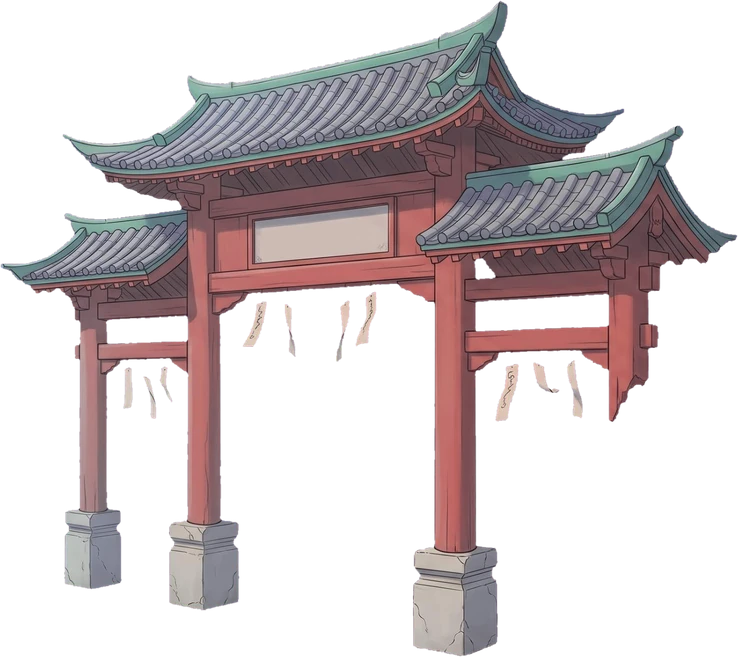
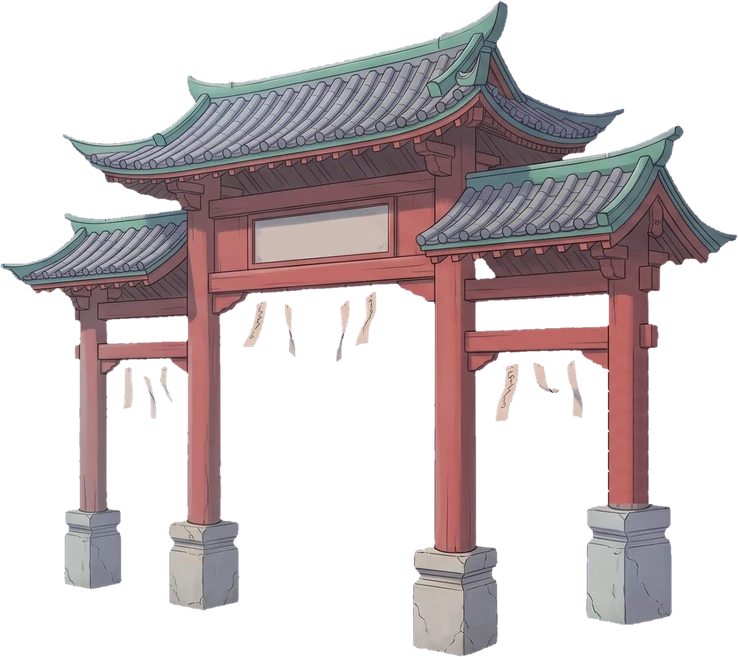
v0.8.50 山門補第四根柱腳；營地影子以營火為光源、隨火光晃動（師妹、山門、主角、營火接地影）（待確認）
Claude-Session: https://claude.ai/code/session_019t36GmrLQc7US5TAURovuv

Changed region(s): [[0.7791, 0.5784, 0.935, 0.9741]]

diff --git a/src/62_hub.js b/src/62_hub.js
@@ -71,6 +71,22 @@
       }
 
       const HUB_GATE_S = 0.33, HUB_GATE_L = -470; /* 山門縮放與左緣（前柱中心約在 x=-170，HUB_GATE_X=-150 越過即進場） */
+      /* v0.8.50 營地光源＝營火：影子方向背向火、越近越深越長，跟火光一起晃 */
+      const HUB_FIRE_X = -900;
+      function hubFlick() { const t = performance.now() / 1000; return 1 + 0.09 * Math.sin(t * 9) + 0.05 * Math.sin(t * 23 + 1.3) + 0.03 * Math.sin(t * 41); }
+      function hubLight(x) {
+        const d = x - HUB_FIRE_X, ad = Math.abs(d), f = hubFlick();
+        const near = Math.max(0, 1 - ad / 1100);
+        return { skew: Math.max(-1.5, Math.min(1.5, d / 320)) * f, len: (0.14 + 0.1 * near) * f, a: (0.28 + 0.34 * near) * (0.9 + 0.1 * f) };
+      }
+      function hubShadow(img, wx, ax, ay, S) { /* img 的 (ax, ay) 點站在地面 wx；S 為負＝左右鏡像 */
+        const c = shadowImg(img); if (!c) return;
+        const L = hubLight(wx);
+        ctx.save(); ctx.globalAlpha = L.a;
+        ctx.transform(S, 0, Math.abs(S) * L.skew, -Math.abs(S) * L.len, wx, Config.groundY + 2);
+        ctx.drawImage(c, -ax, -ay, img.naturalWidth, img.naturalHeight);
+        ctx.restore();
+      }
       function drawHubFront() { /* 山門前柱：畫在主角前面，讓主角像是從牌坊底下穿過 */
         if (Game.mode === "battle") return;
         const F = getBgArt("hub_gate_front"); if (!F.ok) return;
@@ -170,6 +186,7 @@
         ctx.fillRect(fx - 320, gy - 360, 640, 400);
         ctx.restore();
         const FB = getBgArt("hub_fire_base"), FS = fxSheet("campfire");
+        { const f2 = hubFlick(); ctx.save(); ctx.fillStyle = `rgba(10,6,4,${0.35 * (2 - f2)})`; ctx.beginPath(); ctx.ellipse(fx, gy + 6, 86 * (0.97 + 0.03 * f2), 12, 0, 0, Math.PI * 2); ctx.fill(); ctx.restore(); } /* 營火接地陰影 */
         if (FB.ok) ctx.drawImage(FB.img, fx - 78, gy - 58, 156, 76);
         if (FS.ok) {
           const cell = FS.img.naturalWidth / 4, f = Math.floor(t * 12) % 8;
@@ -189,7 +206,7 @@
           const SI = getBgArt("hub_shimei_" + pose);
           if (SI.ok) {
             const k = 0.346, w = 400 * k, h = 700 * k;
-            ctx.save(); ctx.fillStyle = "rgba(0,0,0,0.28)"; ctx.beginPath(); ctx.ellipse(nx, gy + 2, 44, 7, 0, 0, Math.PI * 2); ctx.fill(); ctx.restore();
+            hubShadow(SI.img, nx, 200, 695, -k); /* 師妹影子（隨營火） */
             ctx.save(); ctx.translate(nx, gy - 695 * k + h / 2 + 2); ctx.scale(-1, 1); ctx.drawImage(SI.img, -w / 2, -h / 2, w, h); ctx.restore();
           }
           const oy = gy - 205 + Math.sin(t * 2) * 6;
@@ -211,6 +228,10 @@
         // 山門（v0.8.49 生圖：斜側面牌坊，前柱另畫在角色前面＝drawHubFront；門洞有結界光幕，走近才散開）
         {
           const G = getBgArt("hub_gate");
+          if (G.ok) { /* 山門影子：以四根柱腳中點為地面基準 */
+            const gw = 1476 * HUB_GATE_S;
+            hubShadow(G.img, HUB_GATE_L + gw * 0.5, G.img.naturalWidth * 0.5, 1259 / 2, HUB_GATE_S * 2);
+          }
           if (G.ok) ctx.drawImage(G.img, HUB_GATE_L, gy - 1259 * HUB_GATE_S, 1476 * HUB_GATE_S, 1315 * HUB_GATE_S);
           const cx0 = HUB_GATE_L + 409 * HUB_GATE_S, cx1 = HUB_GATE_L + 911 * HUB_GATE_S;
           const dist = cx0 - Player.x;

diff --git a/src/64_draw_boss.js b/src/64_draw_boss.js
@@ -788,7 +788,9 @@
         const sx = Math.max(0.5, 1 - lift / 900);
         ctx.save();
         ctx.globalAlpha = a;
-        ctx.transform((facing > 0 ? 1 : -1) * S * sx, 0, S * 0.38, -S * 0.16, x, Config.groundY + 2); /* d 為負：剪影的「高」往螢幕下方（朝觀眾）投到地面上 */
+        const L = Game.mode !== "battle" ? hubLight(x) : null; /* 營地：影子隨營火方向與火光晃動 */
+        if (L) ctx.globalAlpha = a * L.a / 0.46;
+        ctx.transform((facing > 0 ? 1 : -1) * S * sx, 0, S * (L ? L.skew : 0.38), -S * (L ? L.len : 0.16), x, Config.groundY + 2); /* d 為負：剪影的「高」往螢幕下方（朝觀眾）投到地面上 */
         ctx.drawImage(c, -450, -anchorY, img.naturalWidth, img.naturalHeight);
         ctx.restore();
         return true;

diff --git a/src/10_boot.js b/src/10_boot.js
@@ -3,7 +3,7 @@
       "use strict";
 
       /* v0.7.8 圖片快取：assets/ 圖片網址一律加 ?v=版本，更新美術後不會讀到手機瀏覽器的舊快取（每次改圖就遞增 ASSET_VER） */
-      const ASSET_VER = "0.8.49";
+      const ASSET_VER = "0.8.50";
       (function () {
         const d = Object.getOwnPropertyDescriptor(HTMLImageElement.prototype, "src");
         if (!d || !d.set) return;
